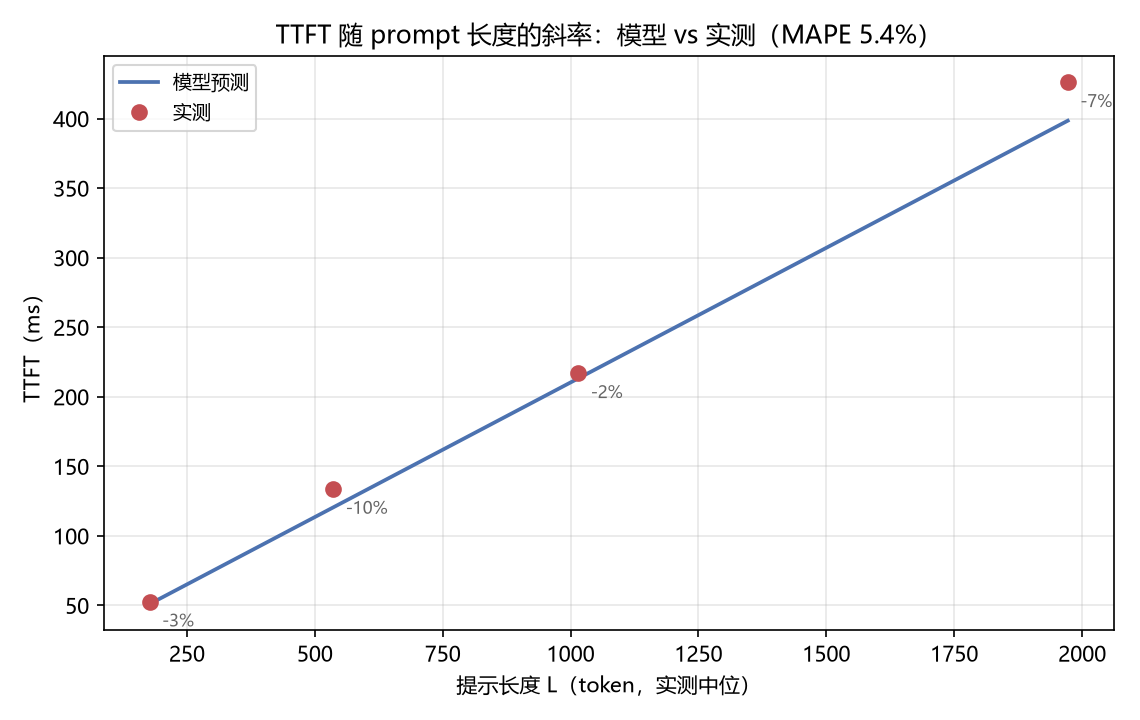
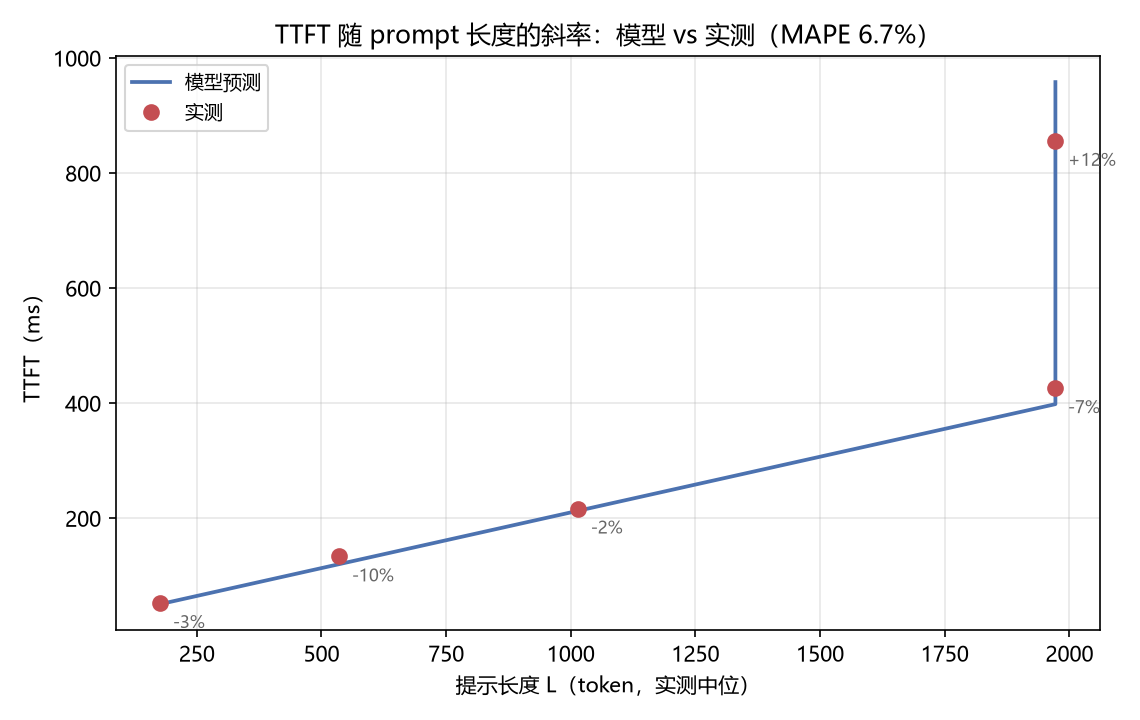
feat(prompt-sweep): add 7B point; fit slope per model (3B ratio 1.07); startup hint for slow loads

diff --git a/code/tc_analyze_prompt_sweep.py b/code/tc_analyze_prompt_sweep.py
@@ -101,18 +101,31 @@ def main():
               f"{r['err_ttft']*100:>7.0f}%{r['tpot']:>9.2f}ms{r['pred_tpot']:>9.2f}ms"
               f"{r['err_tpot']*100:>7.0f}%")
 
+    per_model = {f"{m}-{q}": float(np.mean(np.abs(sub["err_ttft"])) * 100)
+                 for (m, q), sub in d.groupby(["model", "quant"])}
     mape_ttft = float(np.mean(np.abs(d["err_ttft"])) * 100)
     max_ttft = float(np.max(np.abs(d["err_ttft"])) * 100)
     print(f"\n  TTFT：MAPE {mape_ttft:.1f}%，最大误差 {max_ttft:.1f}%"
           f"（L 跨度 {d['L'].min():.0f}–{d['L'].max():.0f} token，"
           f"{d['L'].max()/d['L'].min():.1f} 倍）")
 
-    # ---- 斜率对比：实测 vs 模型 ----
-    if len(d) >= 3:
-        k_meas, b_meas = np.polyfit(d["L"], d["ttft"], 1)
-        k_pred, b_pred = np.polyfit(d["L"], d["pred_ttft"], 1)
-        print(f"\n  实测斜率 {k_meas:.4f} ms/token   模型斜率 {k_pred:.4f} ms/token"
-              f"   比值 {k_meas / k_pred:.2f}")
+    # ---- 斜率对比：**必须按模型分别拟合** ----
+    # 不同模型的斜率不同（权重项 W/BW 不同、参数量不同），混在一起拟合没有意义。
+    slopes = {}
+    print()
+    for (m, q), sub in d.groupby(["model", "quant"]):
+        sub = sub.sort_values("L")
+        if len(sub) >= 2:
+            k_meas = float(np.polyfit(sub["L"], sub["ttft"], 1)[0])
+            k_pred = float(np.polyfit(sub["L"], sub["pred_ttft"], 1)[0])
+            slopes[f"{m}-{q}"] = dict(k_meas=k_meas, k_pred=k_pred,
+                                      ratio=k_meas / k_pred, n=len(sub))
+            print(f"  {m}-{q:<8} {len(sub)} 点  实测斜率 {k_meas:.4f}  "
+                  f"模型斜率 {k_pred:.4f}  ms/token  比值 {k_meas/k_pred:.2f}")
+        else:
+            print(f"  {m}-{q:<8} 只有 {len(sub)} 点，**不足以拟合斜率**"
+                  f"（只能看幅值误差）")
+    if slopes:
         print("  说明：斜率 = 2·P·min(b,B_SAT)/PEAK_pre 的等效值，"
               "是 prefill 算力项的直接检验。")
 
@@ -136,14 +149,16 @@ def main():
     print(f"\n已保存 {out}")
 
     d.to_csv(cfg.RESULTS_DIR / "prompt_sweep.csv", index=False, encoding="utf-8-sig")
-    (cfg.RESULTS_DIR / "prompt_sweep_summary.json").write_text(json.dumps(dict(
-        n_cells=len(d), mape_ttft=mape_ttft, max_err_ttft=max_ttft,
-        slope_meas=float(k_meas) if len(d) >= 3 else None,
-        slope_pred=float(k_pred) if len(d) >= 3 else None,
-        L_range=[float(d["L"].min()), float(d["L"].max())],
-    ), ensure_ascii=False, indent=2), encoding="utf-8")
+    (cfg.RESULTS_DIR / "prompt_sweep_summary.json").write_text(
+        json.dumps(dict(
+            n_cells=len(d), mape_ttft=mape_ttft, max_err_ttft=max_ttft,
+            L_range=[float(d["L"].min()), float(d["L"].max())],
+            slopes=slopes,                  # 只含 ≥2 个长度点的模型
+            per_model_mape=per_model,      # 单模型口径的 TTFT MAPE
+        ), ensure_ascii=False, indent=2), encoding="utf-8")
     print(f"已写入 {cfg.RESULTS_DIR / 'prompt_sweep_summary.json'}")
 
 
 if __name__ == "__main__":
     main()
+

diff --git a/code/tc_run_cell.py b/code/tc_run_cell.py
@@ -79,6 +79,11 @@ def run_cell(model, quant, ctx, conc, repeats=None, save_requests=True,
     rows = []
     try:
         t_start = time.time()
+        # 首次加载要把权重读进显存：3B 约 5–15 秒，7B 常要 30–60 秒。
+        # 不加这句提示很容易被误判成卡死、然后被手动中断——中断就白跑了（无日志、无落盘）。
+        if verbose:
+            est = "30–60 秒" if model in ("7B", "Llama1B") else "5–15 秒"
+            print(f"    正在启动 llama-server（{model} 首次加载约 {est}，请勿中断）...", flush=True)
         proc, log_path = srv.start(key, ctx, conc, tag=cid)
         if verbose:
             print(f"    服务就绪 {time.time()-t_start:.1f}s  日志 {log_path.name}")

diff --git a/code/tc_claims.py b/code/tc_claims.py
@@ -44,12 +44,16 @@ def _sweep(key, unit, nd=1):
 
 
 def _sweep_ratio():
+    """斜率比值：只报**有 ≥2 个长度点**的模型（单点无法拟合斜率）。"""
     p = RESULTS / "prompt_sweep_summary.json"
     if not p.exists():
         return "无数据"
     d = json.loads(p.read_text(encoding="utf-8"))
-    a, b = d.get("slope_meas"), d.get("slope_pred")
-    return f"{a/b:.2f}×" if a and b else "无数据"
+    sl = d.get("slopes") or {}
+    if not sl:
+        return "无数据"
+    k = sorted(sl)[0]
+    return f"{sl[k]['ratio']:.2f}×（{k}）"
 
 
 def _sweep_range():
@@ -413,6 +417,7 @@ def main():
 
 if __name__ == "__main__":
     main()
+
 
 
 

diff --git a/results/CLAIMS.md b/results/CLAIMS.md
@@ -22,8 +22,8 @@
 | 服务端开销 c_srv | 0.766 ms/流/步 |
 | prefill 饱和点 | 13.3 |
 | 首字固定开销 | 15.96 ms |
-| TTFT 长度斜率验证（MAPE） | 5.4% |
-| TTFT 长度斜率（实测/模型） | 1.07× |
+| TTFT 长度斜率验证（MAPE） | 6.7% |
+| TTFT 长度斜率（实测/模型） | 1.07×（3B-q4_k_m） |
 | 长度验证覆盖范围（token） | 177–1972（11.1 倍） |
 | 泊松容量天花板（请求/秒） | 2.47 |
 | 模型容量预测（请求/秒） | 3.43（实测 72%） |
